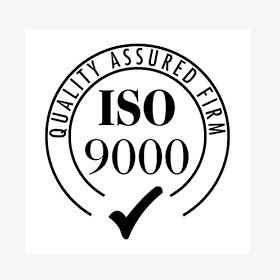
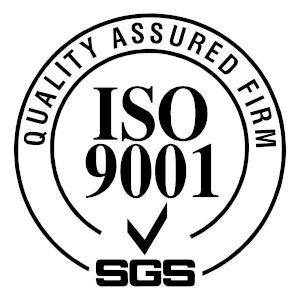
Se modifica iso 9000 por iso 9001

Changed region(s): [[0.0286, 0.0286, 0.9714, 0.9714], [0.2571, 0.7143, 0.3429, 0.8]]

diff --git a/_contenido/_index.html b/_contenido/_index.html
@@ -114,7 +114,7 @@
                             <div class="fact-container mb-sm-50">
                                 <div class="single-fact">
                                     <img src="img/certificados/iso900.jpg" alt="Certificacion ISO 9000" class="img-circle img-certificado">
-                                    <h3 class="fact-title c5 fw-7 text-capitalize">Certificación de calidad ISO 9000</h3>
+                                    <h3 class="fact-title c5 fw-7 text-capitalize">Certificación de calidad ISO 9001</h3>
                                 </div>
                             </div>
                         </div>
